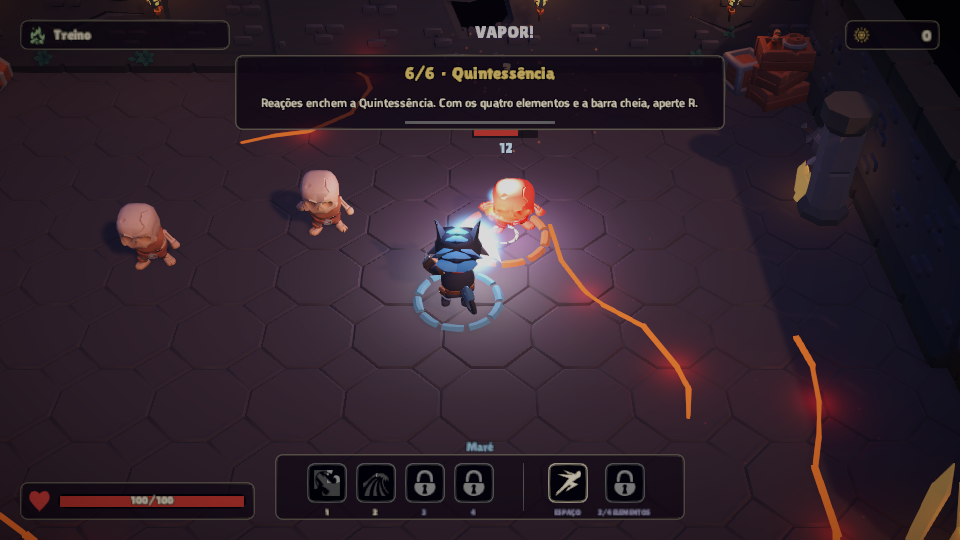
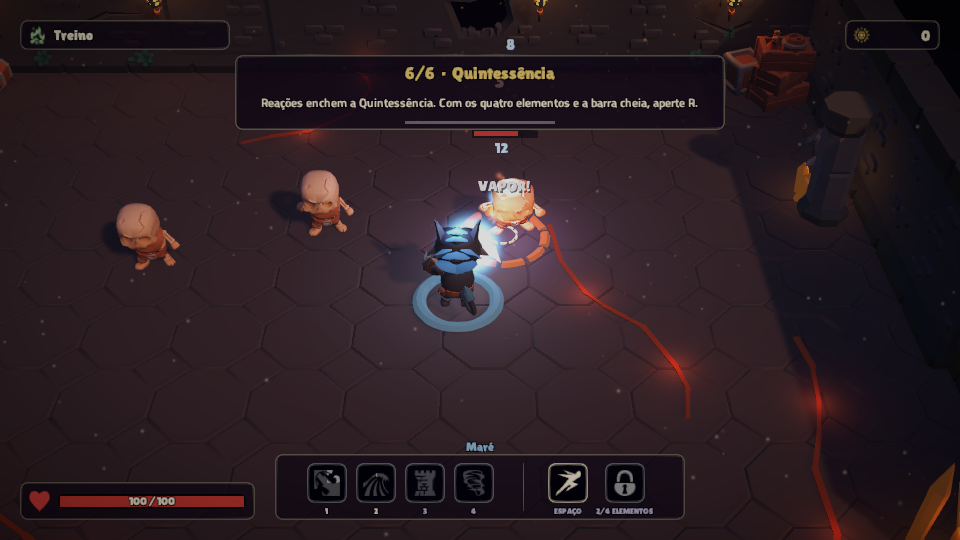
Treino com a cara dos Salões de Cinza: a sala de treino não passava pelo ajuste de bioma e mostrava as rachaduras com o brilho cru (laranja quase neon) na primeira tela de quem joga

diff --git a/docs/progresso.html b/docs/progresso.html
@@ -42,12 +42,14 @@
       <li><b>Velas reagem à Água:</b> as velas acesas do cenário (Pacto, Provação, Mestre, Descanso) apagam com skill ou reação de Água por perto, soltam um fio de fumaça e reacendem com Fogo ou sozinhas em 8 s, como as tochas. A chama faz parte do modelo do pack, então apagar é trocar pela vela apagada do mesmo pack. Só Água apaga (Ar apagando seria uma regra nova).</li>
       <li><b>Câmera na luta do chefe:</b> enquanto o chefe vive, a câmera puxa 10% do caminho até ele (no máximo 1,2 m; o adiantamento do mouse soma por cima): a Rainha ficava no alto, metade sob a barra de vida.</li>
       <li><b>Rachaduras de lava 30% mais fracas</b> nos Salões e no Coração: eram o ponto mais saturado do quadro e puxavam o olho para fora da briga.</li>
+      <li><b>Treino com a cara da run:</b> a sala de treino não passava pelo ajuste de bioma e mostrava as rachaduras com o brilho cru (laranja quase neon), justamente a primeira tela de quem joga pela primeira vez. Agora ela fica com a luz e as cores dos Salões de Cinza.</li>
       <li><b>Letreiro da Provação e do Cerco</b> fica 3,2 s em vez de 4 s (a primeira onda já chegava com ele na tela); o objetivo continua no chip da sala.</li>
     </ul>
     <p><b>Rodada 16 (quadros de uma run inteira jogada pelo bot):</b> na luta do chefe o chip do alto fica só "Sala 5/5 · Chefe" e o "ONDA 1/1" não aparece mais logo depois do letreiro do chefe (a barra dele já diz tudo). Nas outras salas o aviso de onda continua: é o único sinal perto do olho, e no Cerco e na Provação o "REFORÇOS" é o único aviso. Descartado: estandartes balançando com Ar (enfeite sem função, mesma classe dos estandartes em chamas).</p>
     <p><b>Descartado:</b> estandartes de parede que pegam fogo (decoração sem função, e brasa a cada skill de Fogo contradiz o objetivo de tirar ruído da luta).</p>
     <div class="cols">
       <div><h3>Rachaduras antes e depois</h3><img src="img/s10_rachaduras.jpg" alt="Sala dos Salões de Cinza antes e depois: rachaduras menos saturadas"></div>
+      <div><h3>Treino antes e depois</h3><img src="img/s10_treino.jpg" alt="Sala de treino antes (rachaduras laranja vivo) e depois (como os Salões de Cinza)"></div>
     </div>
   </section>
 

diff --git a/Assets/Game/Game/Tests/PlayMode/RunPlayTests.cs b/Assets/Game/Game/Tests/PlayMode/RunPlayTests.cs
@@ -2586,6 +2586,9 @@ namespace Quintessence.Game.PlayTests
             for (int i = 0; i < 10; i++) yield return null;
             var tut = Object.FindFirstObjectByType<TutorialDirector>();
             Assert.IsNotNull(tut, "a cena de run deveria abrir o treino");
+            var dresser = Object.FindFirstObjectByType<BiomeDresser>();
+            Assert.IsNotNull(dresser);
+            Assert.AreEqual(Biome.Ashes, dresser.Current, "o treino tem a cara dos Saloes de Cinza (sem o brilho cru das rachaduras)");
             var hud = Object.FindFirstObjectByType<Hud>();
             player = Object.FindFirstObjectByType<PlayerController>();
             hp = player.GetComponent<Health>();

diff --git a/Assets/Game/Game/RunDirector.cs b/Assets/Game/Game/RunDirector.cs
@@ -715,6 +715,9 @@ namespace Quintessence.Game
             {
                 // treino: sem mapa nem ondas; outro diretor cuida da sala
                 Run = new RunState(RunMapGenerator.Generate(1, 3, 0));
+                // o treino nao passava pelo vestidor: rachaduras com o brilho cru do construtor (laranja quase neon),
+                // diferente da run. Fica com a cara dos Saloes de Cinza
+                if (dresser != null) dresser.Apply(Biome.Ashes);
                 hud.SetBoons(null);
                 hud.SetFade(0f);
                 gameObject.AddComponent<TutorialDirector>().Begin(player, hud, dummyPrefab);
